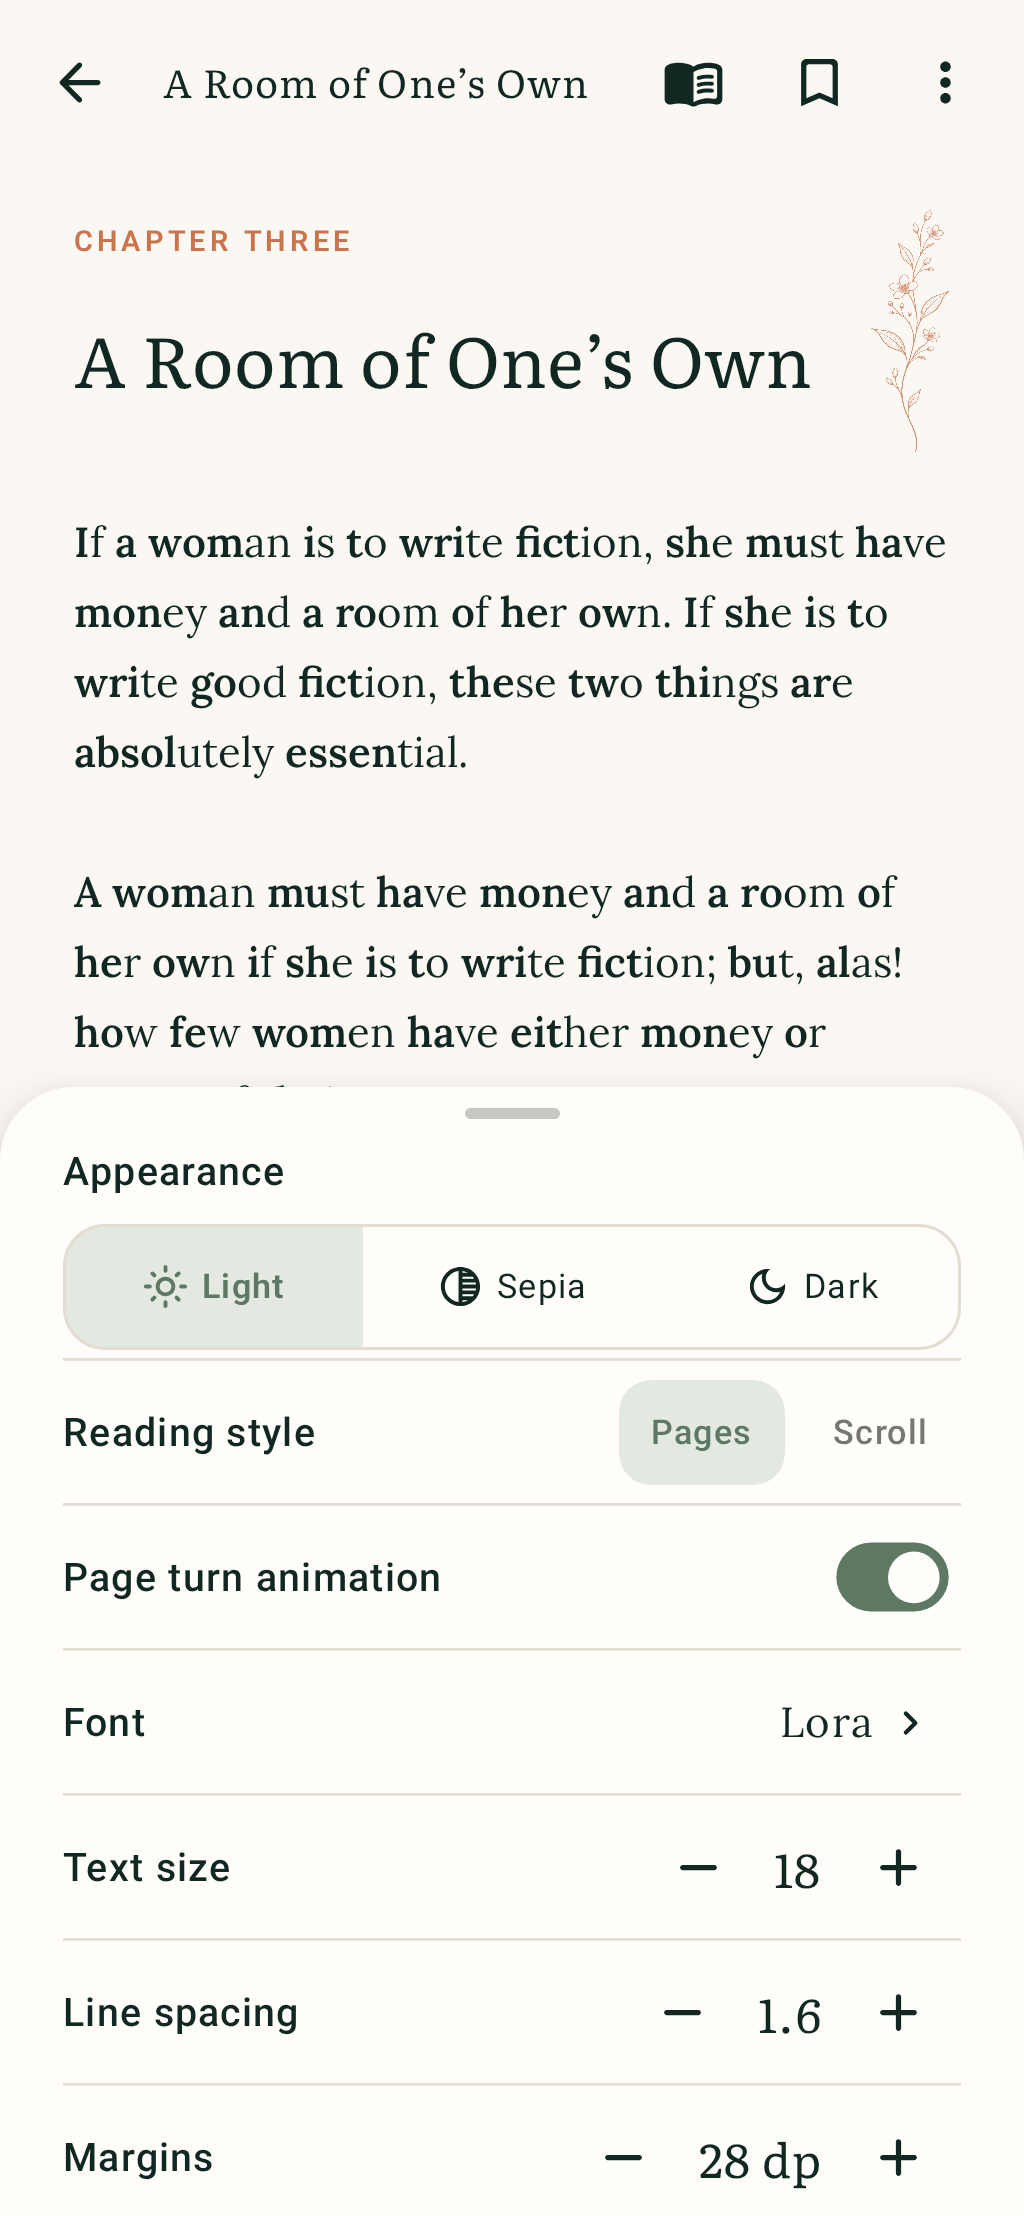
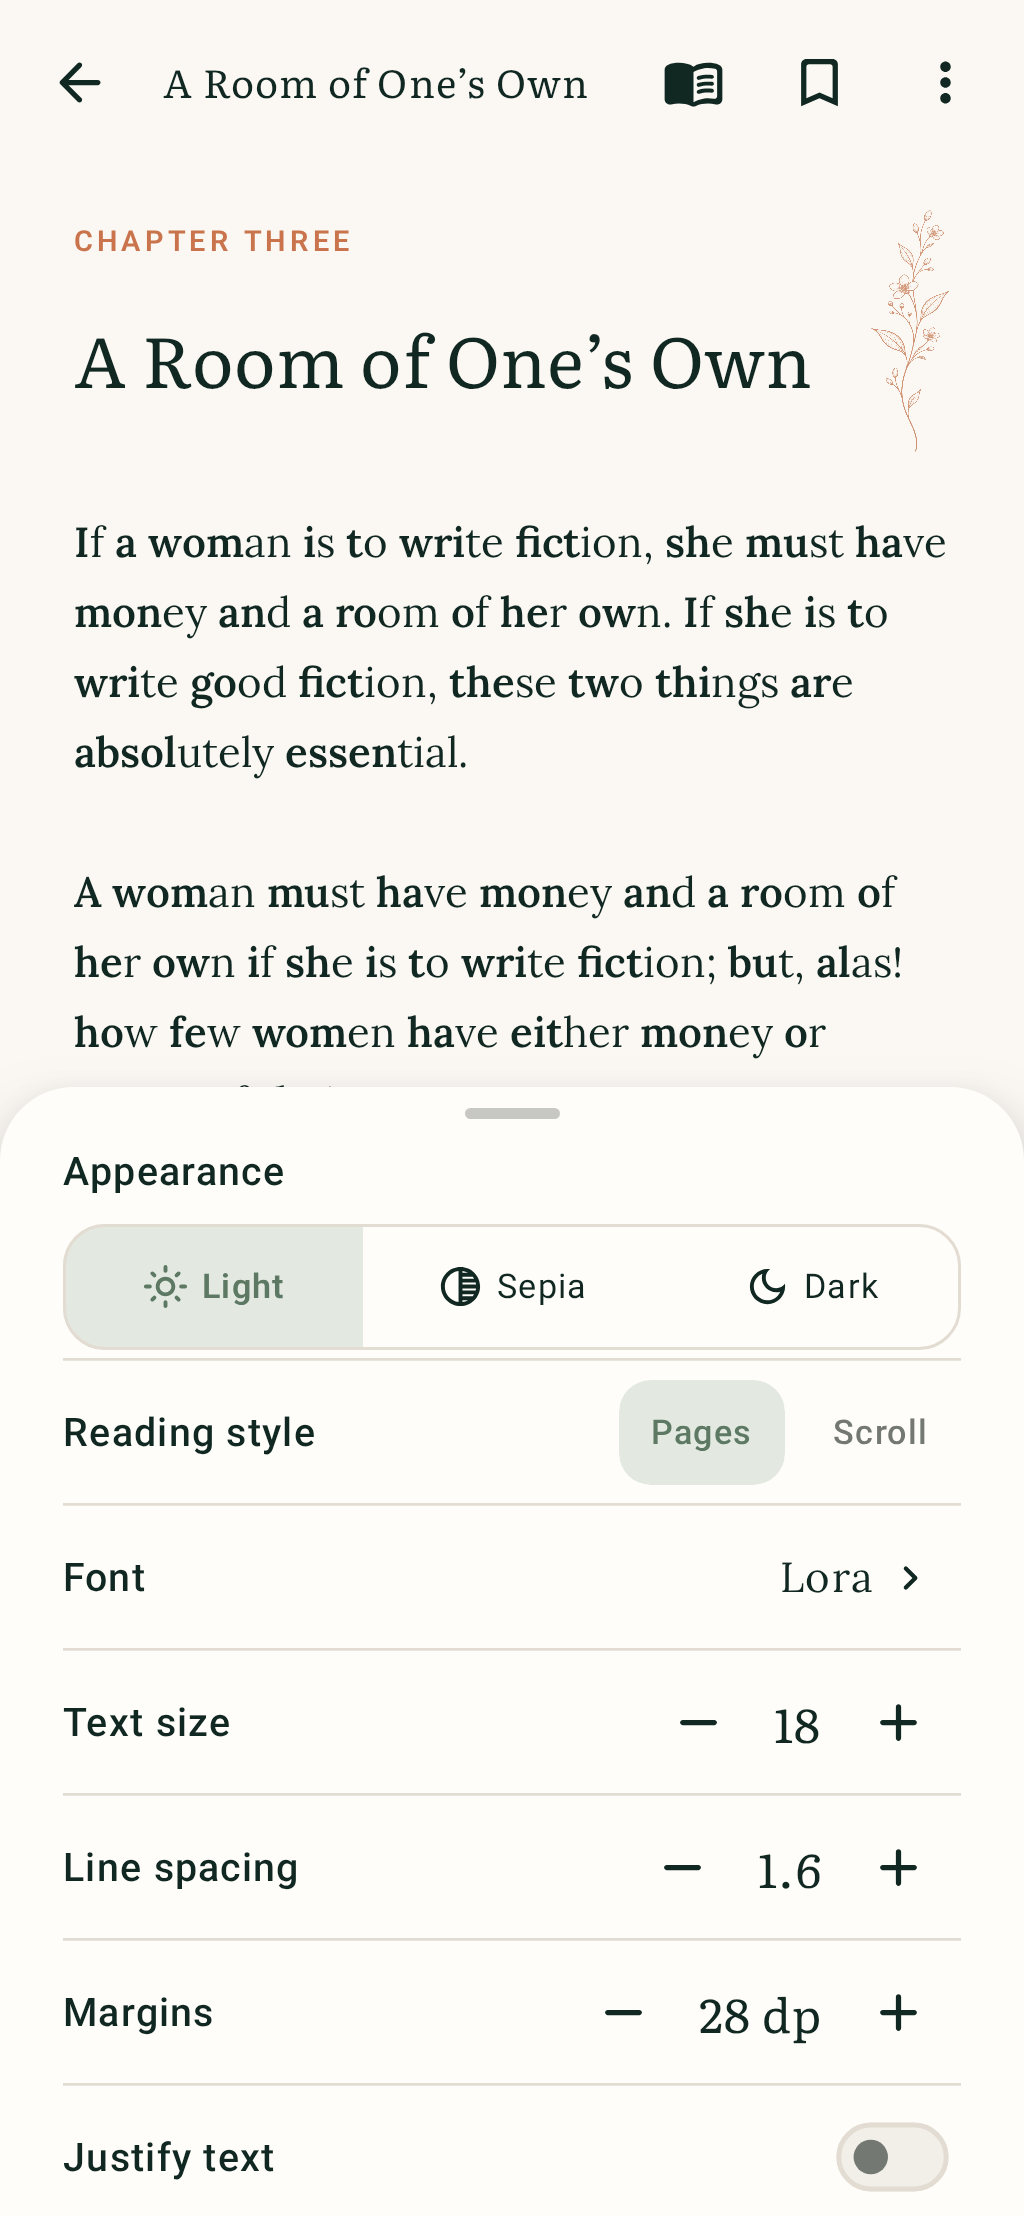
v1.4.1: remove the page-turn animation
It still wasn't visible in practice even after the dimming-scrim
rework, and it's not worth further iteration for a reading app where
the point is to stay out of the way. Pages now turn instantly again,
as they did before 1.3.0. Removed the animatedPageTurns preference,
its settings toggle, and the now-dead pageTurnScale/scrim code.

diff --git a/app/src/main/java/com/serein/reader/ui/ReaderScreen.kt b/app/src/main/java/com/serein/reader/ui/ReaderScreen.kt
@@ -88,7 +88,6 @@ import androidx.compose.ui.draw.alpha
 import androidx.compose.ui.draw.clip
 import androidx.compose.ui.graphics.Color
 import androidx.compose.ui.graphics.asImageBitmap
-import androidx.compose.ui.graphics.graphicsLayer
 import androidx.compose.ui.input.pointer.pointerInput
 import androidx.compose.ui.layout.ContentScale
 import androidx.compose.ui.platform.LocalContext
@@ -591,7 +590,6 @@ private fun PagedReader(
                 beyondViewportPageCount = 1,
             ) { index ->
                 val page = pages[index]
-                val pageOffset = (pagerState.currentPage - index) + pagerState.currentPageOffsetFraction
                 PageContent(
                     book = book,
                     chapterTitle = content.chapters[page.chapterIndex].title,
@@ -606,7 +604,6 @@ private fun PagedReader(
                     onNext = {
                         if (index < pages.lastIndex) pagerState.requestScrollToPage(index + 1)
                     },
-                    pageOffset = if (preferences.animatedPageTurns) pageOffset else 0f,
                 )
             }
         }
@@ -667,24 +664,6 @@ private fun precedingPages(
     return pages.takeLast(count)
 }
 
-/**
- * A page shrinks slightly and dims under a soft scrim as it slides past its neighbor, then
- * settles back to flat (scale 1, no scrim) once it's fully at rest. The scrim is drawn *inside*
- * the page's own bounds rather than relying on drop-shadow bleed outside them — pages sit flush
- * against each other with no gap, so an external shadow would have nowhere visible to fall and a
- * plain scale-down would just reveal identically-colored background. Uses only [pageOffset]'s
- * magnitude so it looks correct regardless of swipe direction.
- */
-private fun Modifier.pageTurnScale(pageOffset: Float): Modifier = graphicsLayer {
-    val magnitude = kotlin.math.abs(pageOffset.coerceIn(-1f, 1f))
-    val scale = 1f - (0.03f * magnitude)
-    scaleX = scale
-    scaleY = scale
-}
-
-private fun pageTurnScrimAlpha(pageOffset: Float): Float =
-    kotlin.math.abs(pageOffset.coerceIn(-1f, 1f)) * 0.35f
-
 @Composable
 private fun PageContent(
     book: BookRecord,
@@ -698,12 +677,11 @@ private fun PageContent(
     onLinkTap: (Int, Int) -> Unit,
     onPrevious: () -> Unit,
     onNext: () -> Unit,
-    pageOffset: Float = 0f,
     modifier: Modifier = Modifier,
 ) {
     val palette = LocalSereinPalette.current
     val tapZoneWidth = if (preferences.wideTapZones) 82.dp else 34.dp
-    Box(modifier.fillMaxSize().pageTurnScale(pageOffset)) {
+    Box(modifier.fillMaxSize()) {
         Column(Modifier.fillMaxSize().padding(horizontal = preferences.marginWidth.dp, vertical = 18.dp)) {
             if (page.isChapterStart) {
                 Row(Modifier.fillMaxWidth().height(116.dp), verticalAlignment = Alignment.Top) {
@@ -744,10 +722,6 @@ private fun PageContent(
         }
         Box(Modifier.align(Alignment.CenterStart).width(tapZoneWidth).fillMaxHeight().clickable(onClick = onPrevious))
         Box(Modifier.align(Alignment.CenterEnd).width(tapZoneWidth).fillMaxHeight().clickable(onClick = onNext))
-        val scrimAlpha = pageTurnScrimAlpha(pageOffset)
-        if (scrimAlpha > 0f) {
-            Box(Modifier.fillMaxSize().background(Color.Black.copy(alpha = scrimAlpha)))
-        }
     }
 }
 

diff --git a/app/src/main/java/com/serein/reader/data/BookRepository.kt b/app/src/main/java/com/serein/reader/data/BookRepository.kt
@@ -253,7 +253,6 @@ class BookRepository(private val context: Context) {
                 preferences.getString(KEY_READING_MODE, ReadingMode.PAGED.name).orEmpty()
             )
         }.getOrDefault(ReadingMode.PAGED),
-        animatedPageTurns = preferences.getBoolean(KEY_ANIMATED_PAGE_TURNS, true),
         brightness = preferences.getFloat(KEY_BRIGHTNESS, -1f).let {
             if (it < 0f) -1f else it.coerceIn(0.05f, 1f)
         },
@@ -273,7 +272,6 @@ class BookRepository(private val context: Context) {
             .putBoolean(KEY_JUSTIFY_TEXT, readerPreferences.justifyText)
             .putBoolean(KEY_BIONIC, readerPreferences.bionicReading)
             .putString(KEY_READING_MODE, readerPreferences.readingMode.name)
-            .putBoolean(KEY_ANIMATED_PAGE_TURNS, readerPreferences.animatedPageTurns)
             .putFloat(KEY_BRIGHTNESS, readerPreferences.brightness)
             .putString(KEY_ORIENTATION, readerPreferences.orientation.name)
             .putBoolean(KEY_VOLUME_PAGE_TURNS, readerPreferences.volumePageTurns)
@@ -692,7 +690,6 @@ class BookRepository(private val context: Context) {
         .put("justifyText", value.justifyText)
         .put("bionicReading", value.bionicReading)
         .put("readingMode", value.readingMode.name)
-        .put("animatedPageTurns", value.animatedPageTurns)
         .put("brightness", value.brightness.toDouble())
         .put("orientation", value.orientation.name)
         .put("volumePageTurns", value.volumePageTurns)
@@ -708,7 +705,6 @@ class BookRepository(private val context: Context) {
         justifyText = optBoolean("justifyText"),
         bionicReading = optBoolean("bionicReading"),
         readingMode = runCatching { ReadingMode.valueOf(optString("readingMode")) }.getOrDefault(ReadingMode.PAGED),
-        animatedPageTurns = optBoolean("animatedPageTurns", true),
         brightness = optDouble("brightness", -1.0).toFloat().let { if (it < 0f) -1f else it.coerceIn(0.05f, 1f) },
         orientation = runCatching { ReaderOrientation.valueOf(optString("orientation")) }.getOrDefault(ReaderOrientation.SYSTEM),
         volumePageTurns = optBoolean("volumePageTurns"),
@@ -793,7 +789,6 @@ class BookRepository(private val context: Context) {
         const val KEY_JUSTIFY_TEXT = "reader_justify_text"
         const val KEY_BIONIC = "reader_bionic"
         const val KEY_READING_MODE = "reader_reading_mode"
-        const val KEY_ANIMATED_PAGE_TURNS = "reader_animated_page_turns"
         const val KEY_BRIGHTNESS = "reader_brightness"
         const val KEY_ORIENTATION = "reader_orientation"
         const val KEY_VOLUME_PAGE_TURNS = "reader_volume_page_turns"

diff --git a/app/src/main/java/com/serein/reader/ui/ReaderSettingsSheet.kt b/app/src/main/java/com/serein/reader/ui/ReaderSettingsSheet.kt
@@ -115,14 +115,6 @@ internal fun ReaderSettingsSheet(
                     }
                 }
             }
-            if (preferences.readingMode == ReadingMode.PAGED) {
-                SettingsDivider()
-                SettingsSwitch(
-                    label = "Page turn animation",
-                    checked = preferences.animatedPageTurns,
-                    onCheckedChange = { enabled -> onChange { it.copy(animatedPageTurns = enabled) } },
-                )
-            }
             SettingsDivider()
             Row(Modifier.fillMaxWidth().height(48.dp), verticalAlignment = Alignment.CenterVertically) {
                 SettingsLabel("Font", Modifier.weight(1f))

diff --git a/app/src/main/java/com/serein/reader/data/Models.kt b/app/src/main/java/com/serein/reader/data/Models.kt
@@ -77,7 +77,6 @@ data class ReaderPreferences(
     val justifyText: Boolean = false,
     val bionicReading: Boolean = false,
     val readingMode: ReadingMode = ReadingMode.PAGED,
-    val animatedPageTurns: Boolean = true,
     /** -1 follows the system brightness; values from 0.05 to 1 override it. */
     val brightness: Float = -1f,
     val orientation: ReaderOrientation = ReaderOrientation.SYSTEM,

diff --git a/README.md b/README.md
@@ -28,7 +28,6 @@ All six states are rendered at 390 × 844 dp by the Compose screenshot test suit
 - Read in reflowed page mode or continuous scrolling mode.
 - Open large books quickly with incremental pagination that measures only nearby pages, and chunk oversized paragraphs to keep continuous scrolling responsive.
 - See percentage read, an estimated reading time remaining based on your own pace this session, pages remaining, and current/total layout pages in a quiet footer.
-- Turn pages with a soft lift-and-shadow transition instead of an instant cut, with a setting to turn it off.
 - Adjust page margins and turn on full text justification.
 - Navigate with a table of contents and full-book text search.
 - Tap a link on a book's own Index or Contents page to jump straight to the chapter or heading it points to.
